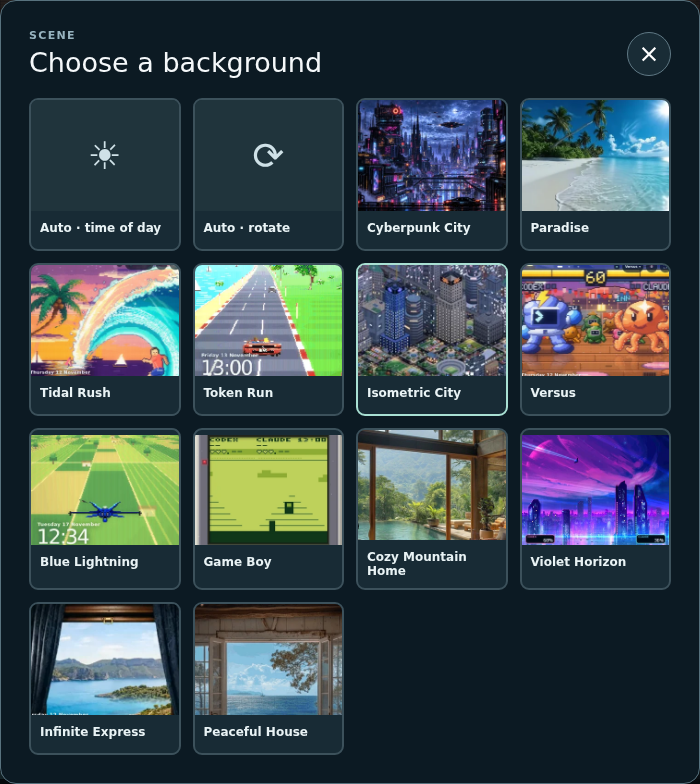
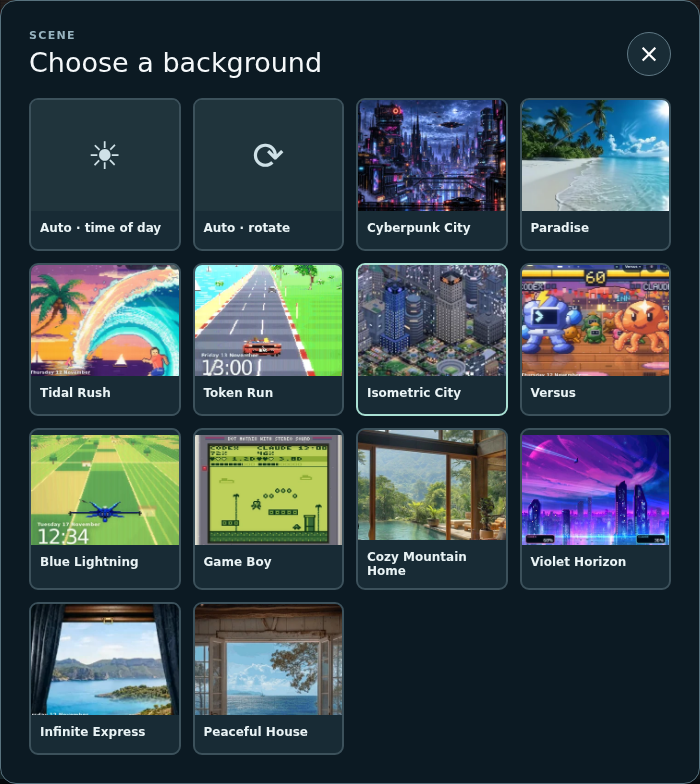
Make the Game Boy preview legible in the tablet gallery

Changed region(s): [[0.27, 0.551, 0.48, 0.7041]]

diff --git a/ASSETS.md b/ASSETS.md
@@ -13,7 +13,7 @@
 
 - Tablet README previews use fictional usage and computer readings. The Tidal Rush and Infinite Express previews show selected custom artwork that the maintainer asked to share; their source media are not included. The Versus preview uses an original bundled stage, not the optional private stage. The previews do not grant rights to underlying artwork.
 
-- The tablet scene picker image shows the real chooser using a sample catalogue. Its tiles reuse this repository’s public previews and bundled artwork. The maintainer’s Cozy Mountain Home appears as a small crop of the custom daytime scene. The Game Boy tile shows the original platform demo rendered by the bundled scene engine.
+- The tablet scene picker image shows the real chooser using a sample catalogue. Its tiles reuse this repository’s public previews and bundled artwork. The maintainer’s Cozy Mountain Home appears as a small crop of the custom daytime scene. The Game Boy tile shows the bundled scene engine with a close-up of original demo sprites and fictional readings.
 
 - The tablet handheld engine also has original geometric stand-ins drawn in code. `scripts/prepare_game_handheld.py` prepares that demo without a ROM or external graphics and will not overwrite an existing scene. The refreshed Tidal Rush README capture uses the same previously approved custom background with fictional quotas and credits.
 
